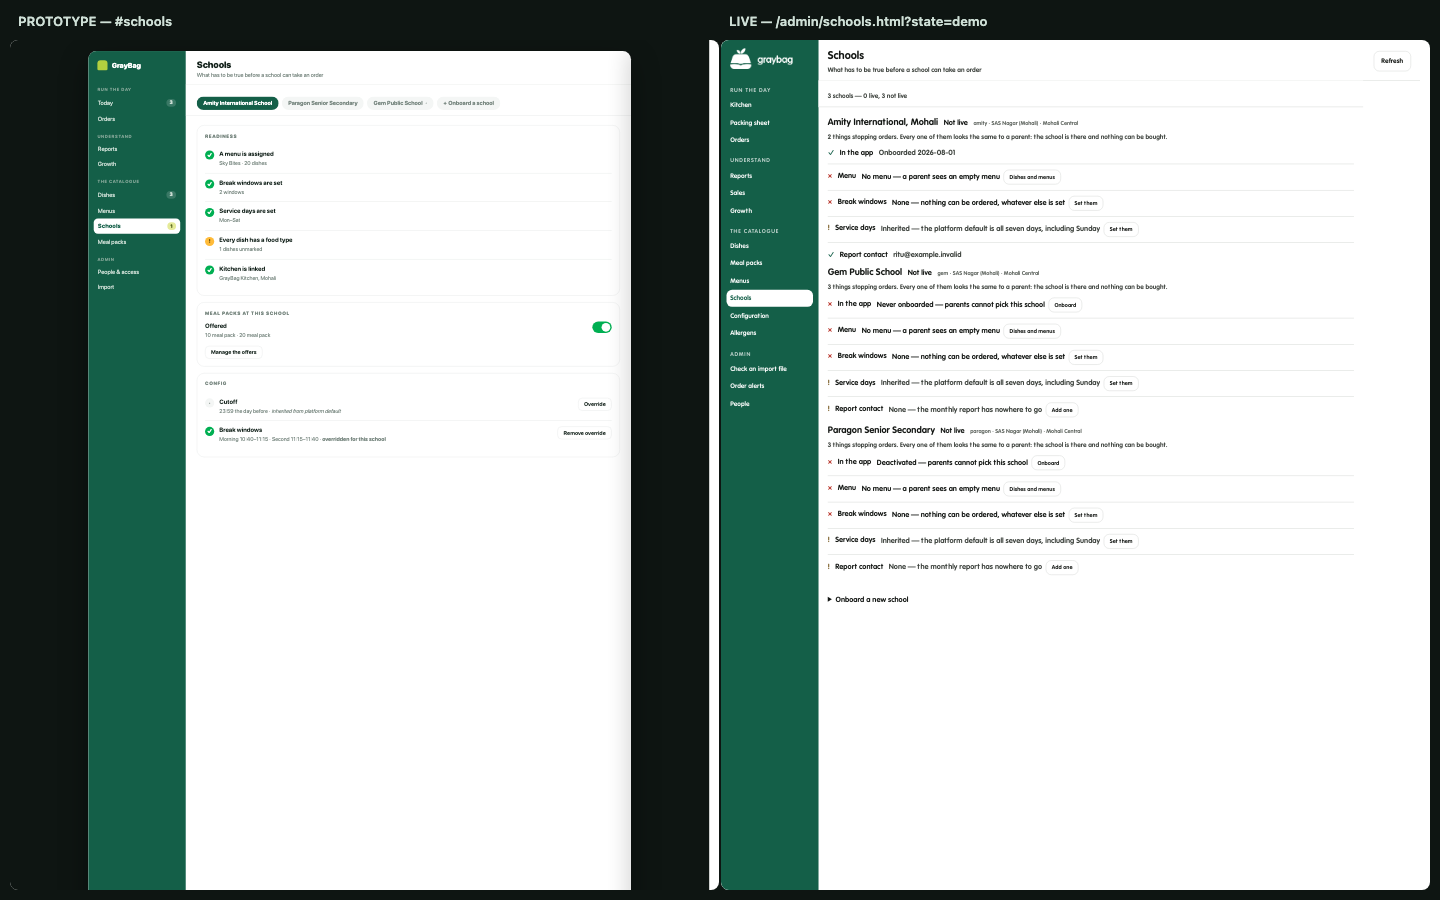
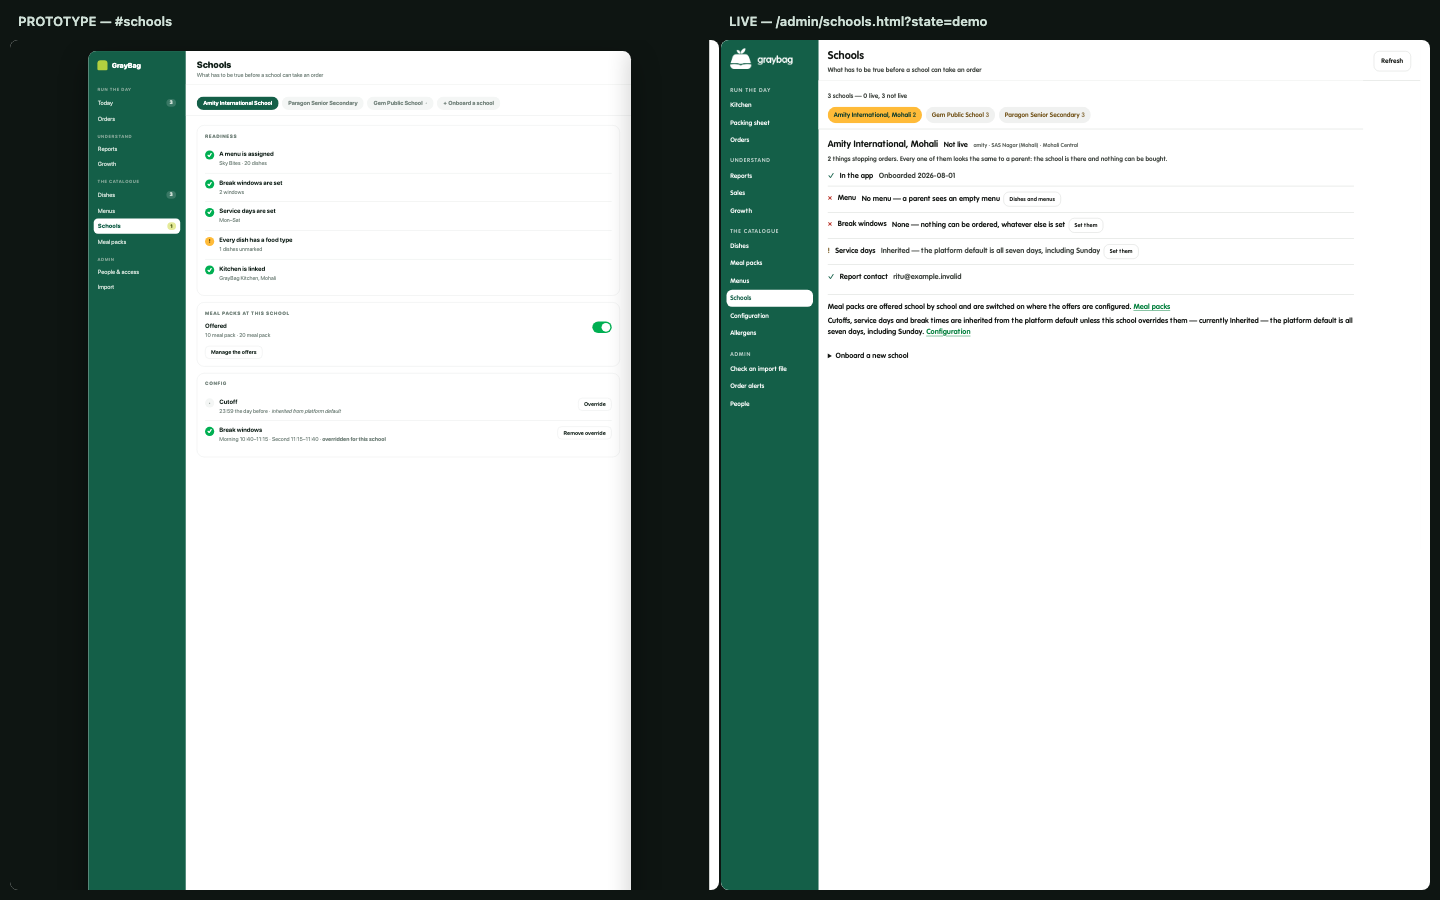
E10-71: Schools and People, scannable at more than three of anything
* E10-71: Schools and People, scannable at more than three of anything

Both screens rendered everything open. /admin/schools stacked every
school on one page; /admin/people expanded every account's grant list,
revoke buttons and job form. Fine at three schools and seven accounts,
a wall at thirty of either, and "is Amity ready" was somewhere in a
scroll.

Schools now shows one school at a time behind a chip picker, with the
blocker count on each chip so the estate stays readable without
scrolling. It defaults to the first school that is NOT live rather than
the first alphabetically: this screen exists to find what is stopping a
school trading, and opening on a healthy one makes you do that job
yourself. The choice is in the URL, so "look at Gem" is a link.

It also gains a read-only "changed elsewhere" block naming meal packs
and configuration, with links. The prototype puts a packs toggle and an
editable config block on this page; both are controls that already
exist behind different permissions, and a second copy here would be a
second write path with its own failure states. The information was the
real gap, not the control — somebody checking a school should not have
to guess whether it offers packs.

People collapses each account's detail behind a <details> whose summary
carries the permission count.

That is deliberately not the prototype's drawer, and the reason is the
date rather than the design: this is the screen that grants and revokes
[…]

Changed region(s): [[0.5625, 0.0933, 0.9375, 0.6844]]

diff --git a/planning/backlog.html b/planning/backlog.html
@@ -4347,13 +4347,13 @@
         </div>
         <div class="meter-wrap">
           <div class="meter"><span style="width:0%"></span></div>
-          <span class="meter-num">0/61</span>
+          <span class="meter-num">0/63</span>
         </div>
       </header>
       <p class="summary">The backend Andy needs to run the business — school onboarding, menu management, config, users, money.</p>
       <p class="deps">Depends on <code>E02</code> <code>E04</code> <code>E07</code></p>
       <details>
-        <summary>Context &amp; 61 tasks</summary>
+        <summary>Context &amp; 63 tasks</summary>
         <div class="context"></div>
         <ul class="tasks">
       <li class="task" data-id="E10-01" data-seed="1" data-risk="" data-owner="build" data-mvp="1" data-seed="1">
@@ -4843,6 +4843,22 @@
         
         <span class="badge r-later">later</span>
         <span class="ttext"><strong><code>/orders</code> had no filters, no export, and was not in the a11y sweep.</strong> The prototype&#39;s Orders carries a school filter, a status filter and an Export CSV; this screen had none of the three, which is readable at three schools and a wall at ten — and the question somebody actually arrives with is *&quot;what did Amity take today&quot;* or *&quot;which orders were cancelled&quot;*. Chips are <strong>built from the day&#39;s own orders</strong>, so a school with nothing today does not offer a filter whose only possible result is an empty page, and each dimension counts against the other filter in force so the numbers match what pressing it would show. Filters live in the <strong>URL</strong>, because a filtered day is a thing somebody sends to somebody else and Refresh is this page&#39;s most-used button. <strong>Filtering is client-side</strong>: the day is already in memory, and a round trip to narrow a list you are holding is a round trip on a school-gate connection for no new information. The CSV is built from the rows on screen, filters included — Andy endorsed that on Reports and the reason is stronger here, since a second read would export a different set from the one being looked at. <code>&quot;Nobody ordered on this day&quot;</code> and <code>&quot;No orders match these filters&quot;</code> are now different empty states with different actions. Also <strong>added to <code>check:a11y</code></strong>, which had never audited it: absent for the same reason <code>parity-shot</code> could not photograph it, and that pairing is how it reached production unstyled. Deliberately <strong>not</strong> imported from the prototype: <code>Mark all delivered</code>, and grouping by class or dish. Those are <code>/kitchen</code>&#39;s, and the prototype has no kitchen screen to put them on — duplicating a write path onto the money view is what <code>D3</code> and <code>E10-08</code> argue against</span>
+      </li>
+      <li class="task" data-id="E10-71" data-seed="1" data-risk="" data-owner="build" data-mvp="0" data-seed="1">
+        <button class="box" role="checkbox" aria-checked="false" aria-label="Toggle E10-71"></button>
+        <code class="tid">E10-71</code>
+        
+        
+        <span class="badge r-later">later</span>
+        <span class="ttext"><strong>Schools and People, made scannable at more than three of anything.</strong> Both screens rendered everything open: <code>/admin/schools</code> stacked every school on one page and <code>/admin/people</code> expanded every account&#39;s grant list, revoke buttons and job form. Fine at three schools and seven accounts, a wall at thirty of either, and the answer to *&quot;is Amity ready&quot;* was somewhere in a scroll. <strong>Schools</strong> now picks one school at a time behind a chip picker, and the chips carry the blocker count so the estate is still readable without scrolling — it defaults to <strong>the first school that is not live</strong>, not the first alphabetically, because this screen exists to find what is stopping a school trading and opening on a healthy one makes you do that job yourself. The choice is in the URL, so &quot;look at Gem&quot; is a link. It also gains a read-only <strong>&quot;changed elsewhere&quot;</strong> block naming meal packs and configuration with links: the prototype puts a packs toggle and an editable config on this page, and both are controls that already exist behind different permissions — a second copy here is a second write path that drifts, which is <code>D3</code>&#39;s and <code>E10-08</code>&#39;s argument again. The <strong>information</strong> was the real gap, not the control. <strong>People</strong> collapses each account&#39;s detail behind a <code>&lt;details&gt;</code> whose summary carries the permission count. Deliberately not the prototype&#39;s drawer: this is the screen that grants and revokes authorisation and Amity begins rolling out to parents tomorrow, so the change keeps the same DOM, the same delegated handlers and the same write paths. Nothing about granting changed</span>
+      </li>
+      <li class="task" data-id="E10-72" data-seed="0" data-risk="" data-owner="build" data-mvp="0">
+        <button class="box" role="checkbox" aria-checked="false" aria-label="Toggle E10-72"></button>
+        <code class="tid">E10-72</code>
+        
+        
+        <span class="badge r-later">later</span>
+        <span class="ttext"><strong><code>/admin/people</code> rows open a drawer, as the prototype has them.</strong> <code>E10-71</code> used a <code>&lt;details&gt;</code> because the timing was wrong for anything else — the drawer means moving the revoke buttons and the job form into it, re-binding their handlers and re-rendering after every write, on the one screen where a bug is an authorisation bug. Worth doing when there is not a rollout on</span>
       </li></ul>
       </details>
     </article>

diff --git a/apps/web/src/styles/backoffice.css b/apps/web/src/styles/backoffice.css
@@ -1288,6 +1288,37 @@
   .bo .daynav__count { display: none; }
   .bo .daynav__date { font-size: var(--gb-font-size-body-strong); line-height: 1.2; }
 }
+/*
+ * "This is true here, and it is changed over there" — `E10-71`.
+ *
+ * Muted and below the gates, because it is context rather than a task. The gates are the reason
+ * somebody opened this screen; this is the answer to the question they ask next.
+ */
+/*
+ * An account's permissions, collapsed — `E10-71`.
+ *
+ * The summary is the affordance and it carries the count, so the number you were scanning for is
+ * readable without opening anything. Styled as a control rather than as text because a disclosure
+ * that does not look pressable is one people scroll past.
+ */
+.bo .srow__detail > summary {
+  cursor: pointer;
+  font-size: var(--gb-font-size-body-sm);
+  font-weight: var(--gb-font-weight-body-strong);
+  color: var(--gb-text-link);
+  padding: var(--gb-space-1) 0;
+}
+.bo .srow__detail > summary:focus-visible { outline: var(--gb-focus-ring); outline-offset: 2px; }
+.bo .srow__detail[open] > summary { margin-bottom: var(--gb-space-2); }
+
+.bo .sch__elsewhere {
+  margin-top: var(--gb-space-4);
+  padding-top: var(--gb-space-3);
+  border-top: var(--gb-border-width-hairline) solid var(--gb-border-subtle);
+}
+.bo .sch__elsewhere .m { margin: 0 0 var(--gb-space-2); }
+.bo .sch__elsewhere .m:last-child { margin-bottom: 0; }
+
 /* ------------------------------------------- screens with no prototype (`E10-60`) */
 
 /*

diff --git a/planning/andy-queue.md b/planning/andy-queue.md
@@ -18,7 +18,7 @@ exists so the queue can be seen draining rather than reconstructed from chat eac
 
 ---
 
-## Open — 6 items
+## Open — 7 items
 
 Rewritten 2026-08-26, because this table had gone stale in both directions: it still listed
 Maestro as blocked when a section further down records it green on 2026-08-16, and it still
@@ -37,6 +37,7 @@ touches the ordering or payment path.
 | ~~11~~ | **Growth, reduced to acquisition only** — **done 2026-08-26** (`E11-22`) | 2026-08-26 | **Added 2026-08-26.** Part of item 10 and listed separately because it is a deletion rather than a build: the funnel moves off Growth and onto Reports, where it sits beside the revenue it explains. Andy's framing: *"Growth = are new families arriving. Reports = does a family who arrives get to an order, over a range."* The funnel half already exists on Reports as of `E11-16`; what remains is removing it from Growth without removing the stuck-parent list, which is the actionable part of that screen |
 | 14 | **One owner account, derived rather than enumerated** | 2026-08-28 | **Client half done and merged; the DDL is written, approved and waiting on a migration number.** Andy: *"a single recorded account against which permission checks pass, not a list of grants somebody keeps in step"*, with two guards — exactly one owner, changed visibly and deliberately; and **no test may run as the owner**. Approved in full on 2026-08-28 including the boundary that decides whether this is a convenience or a hole: **the owner derives permissions, never relationships.** The short-circuit is one boolean `or` in `auth_has_permission` and deliberately *not* in `auth_can_reach_recipient` and its siblings, which answer whether a guardian link exists — extending it there would make one account the implicit guardian of every child. Design and DDL in `docs/proposals/E02-39-derived-platform-owner.md`; decisions `AZ14`–`AZ22`. **`E02-40` (the client) is live and inert**: it treats "no such function" and "no such table" as *"there is no owner yet"*, so the back office is unchanged until the migration lands and unchanged for everyone afterwards. **`E02-41` is what remains** — a number (`0077`+) from the mobile thread and the hand-apply-and-record that put `0068`–`0075` on production. `E02-39` itself is tagged `owner:andy` and stays open for Andy to tick, since the decision was his |
 | 15 | **Grant `meal_packs.manage` on production** | 2026-08-28 | **Done 2026-08-28.** Approved explicitly, and every premise checked before writing: the permission is in the production catalogue (`valid_scope_types = {platform}`, sensitive), the account is live and not disabled, and no grant — live or revoked — existed. Dry run first, one row in the plan, then `--apply`. Verified by reading the row back **and** by asking the server: `auth_has_permission(…, 'meal_packs.manage', 'platform', null)` returns `t`. 31 grants → 32; no other account's count changed. Meal packs is now in the sidebar and `/admin/people` should read `Platform admin` with no missing clause |
+| 16 | **Back-office prototype parity — the last three screens** | 2026-08-28 | **Done 2026-08-28, merged to `main` with no promote marker.** `E10-67` Today as a status page, `E10-70` `/orders` filters + CSV + its first a11y audit, `E10-71` Schools picker and People collapsed. Three things deliberately **not** copied from the prototype, each because it would duplicate a write path we have sited elsewhere behind a different permission: `Mark all delivered` and by-class/by-dish grouping on `/orders` (they are `/kitchen`'s), and the packs toggle and editable config on `/admin/schools` (they are `/admin/packs`' and `/admin/config`'s). The prototype has one screen per noun; we have one per job. What was missing in each case was the **information**, and that is what shipped. `E10-72` files the People drawer for when there is no rollout on |
 | 9 | **Prove a PostHog event arriving from Andy's real device** | 2026-08-25 | **Blocked, and the blocker is not mine to clear.** Reading events needs a **personal** API key (`phx_`); `~/.graybag-secrets/prod.env` holds only the write-only project key (`phc_`), which returns 401 on the query endpoint — confirmed, not assumed. The emitters are shipped and the key is inlined in the production bundle, so the proof is a read away once a `phx_` key exists. Tracked for Andy as a credentialed action |
 | 15 | **Finish what's in flight, then stop — Amity is rolling out to parents** | 2026-08-28 | **Done 2026-08-28. Everything asked for is merged; nothing was shipped to parents.** `#157` (`E21-51` + `E21-50`), `#160` (the workflow union, `DP8`/`DP9`), `#161` (`E21-63`). `npm run test:all` green on `main`: 1118 mobile, 916 pgTAP, 22 pages 0 a11y violations. **Production is untouched and still at `0075`** — seven migrations sit on `main` unapplied, and no OTA was published, so what Amity's parents run today is exactly what they ran this morning. The one thing that touched a parent-facing path is `E21-51`'s refactor of `useAllergenWatchlist`, which the menu and cart share; behaviour-preserving, and Maestro's end-to-end cart run passed. Flagged before merging rather than after |
 | 13 | **Fix the production deploy workflow, apply `0068`–`0075`, and list what else is unapplied** | 2026-08-28 | **Done 2026-08-28, and the premise was wrong in a way worth stating.** The 25 Aug run did not fail on the Migrations job — that job never began. It was a `workflow_dispatch` from `main`; the `production` environment admits `v*` **tags** only, so GitHub refused the ref at the gate: one second, zero steps, no logs. **No `v*` tag has ever existed either, so the workflow has never once succeeded** — production's migrations and Edge Functions have all been applied by hand, including these. Workflow fixed in `E17-63` (PR #152, merged): an ungated `preflight` job, mutation-checked four ways. **A second, independent fault was found before spending Andy's approval** (`E17-64`, `owner:andy`): the `production` environment has **no secrets at all** and `SUPABASE_PROJECT_REF` exists at no level, so the deploy would have failed its own credential guard four steps in — and repo-level `SUPABASE_DB_PASSWORD` is staging's. **Applied by hand instead, which is the path CLAUDE.md #10 sanctions**: production is at **0075**, all eight recorded, every one of fourteen functions/constraints/columns verified to exist, `assert_ledger_integrity()` 5 checks 0 failures, `check_meal_pack_ledger_invariant()` both legs `0 = 0`. Packs are **dark**: `meal_packs_confirmed = false`, zero offers, zero packs, zero redemptions. **All nine stale Edge Functions deployed**; 22 of 22 now current, `payments-webhook` still `verify_jwt=false`. `E15-12`'s money alerting is live on production for the first time |

diff --git a/planning/backlog/E10-admin-dashboard.md b/planning/backlog/E10-admin-dashboard.md
@@ -71,3 +71,5 @@ summary: The backend Andy needs to run the business — school onboarding, menu 
 - [x] `E10-67` **Today — the status page, not the launcher.** `/dashboard` was fourteen cards, one per route, which was right for `E10-43`'s complaint (*"I need to find and paste URL endpoints"*) and stopped being right the moment `E10-55` put a persistent sidebar on every screen. A second navigation underneath the first is a screen spent saying nothing, and it was the first thing anyone saw every morning. Now it answers the question the URL is actually opened with: a **banner** for dishes on a live menu with no veg/non-veg marking (the one catalogue fault a parent meets directly, and every imported dish starts in it — `[DM-17]`), four cards — **Orders today**, **Revenue today**, **Packs sold**, **Needs you** — and **Kitchen, right now**. The subtitle is the date, because a status page whose heading does not say which day it covers is one you have to trust rather than read. Every figure is derived from a read another screen already makes; nothing here is a source of truth and nothing here is a control. **Panels are independent**: six reads behind five grants, each gated and rendered on its own, so a kitchen operator sees what they may see and one failing read leaves the rest standing. **A number that could not be read renders as an em dash and the reason, never as zero** — `ux-spec` §5.21, load-bearing here because "₹0 today" is a sentence somebody would act on, and because `null` (may not see money) and `0` (a pack-paid meal) are genuinely different facts on the same row
 - [ ] `E10-68` **Sort the "Needs you" list by what it costs, not by school order.** It currently lists every blocking school in read order, then dishes, then non-blocking gaps. Right for three schools; at thirty, a school that took ₹40,000 last month and one that has never traded read identically. Needs the revenue join Reports already computes
 - [x] `E10-70` **`/orders` had no filters, no export, and was not in the a11y sweep.** The prototype's Orders carries a school filter, a status filter and an Export CSV; this screen had none of the three, which is readable at three schools and a wall at ten — and the question somebody actually arrives with is *"what did Amity take today"* or *"which orders were cancelled"*. Chips are **built from the day's own orders**, so a school with nothing today does not offer a filter whose only possible result is an empty page, and each dimension counts against the other filter in force so the numbers match what pressing it would show. Filters live in the **URL**, because a filtered day is a thing somebody sends to somebody else and Refresh is this page's most-used button. **Filtering is client-side**: the day is already in memory, and a round trip to narrow a list you are holding is a round trip on a school-gate connection for no new information. The CSV is built from the rows on screen, filters included — Andy endorsed that on Reports and the reason is stronger here, since a second read would export a different set from the one being looked at. `"Nobody ordered on this day"` and `"No orders match these filters"` are now different empty states with different actions. Also **added to `check:a11y`**, which had never audited it: absent for the same reason `parity-shot` could not photograph it, and that pairing is how it reached production unstyled. Deliberately **not** imported from the prototype: `Mark all delivered`, and grouping by class or dish. Those are `/kitchen`'s, and the prototype has no kitchen screen to put them on — duplicating a write path onto the money view is what `D3` and `E10-08` argue against
+- [x] `E10-71` **Schools and People, made scannable at more than three of anything.** Both screens rendered everything open: `/admin/schools` stacked every school on one page and `/admin/people` expanded every account's grant list, revoke buttons and job form. Fine at three schools and seven accounts, a wall at thirty of either, and the answer to *"is Amity ready"* was somewhere in a scroll. **Schools** now picks one school at a time behind a chip picker, and the chips carry the blocker count so the estate is still readable without scrolling — it defaults to **the first school that is not live**, not the first alphabetically, because this screen exists to find what is stopping a school trading and opening on a healthy one makes you do that job yourself. The choice is in the URL, so "look at Gem" is a link. It also gains a read-only **"changed elsewhere"** block naming meal packs and configuration with links: the prototype puts a packs toggle and an editable config on this page, and both are controls that already exist behind different permissions — a second copy here is a second write path that drifts, which is `D3`'s and `E10-08`'s argument again. The **information** was the real gap, not the control. **People** collapses each account's detail behind a `<details>` whose summary carries the permission count. Deliberately not the prototype's drawer: this is the screen that grants and revokes authorisation and Amity begins rolling out to parents tomorrow, so the change keeps the same DOM, the same delegated handlers and the same write paths. Nothing about granting changed
+- [ ] `E10-72` **`/admin/people` rows open a drawer, as the prototype has them.** `E10-71` used a `<details>` because the timing was wrong for anything else — the drawer means moving the revoke buttons and the job form into it, re-binding their handlers and re-rendering after every write, on the one screen where a bug is an authorisation bug. Worth doing when there is not a rollout on
